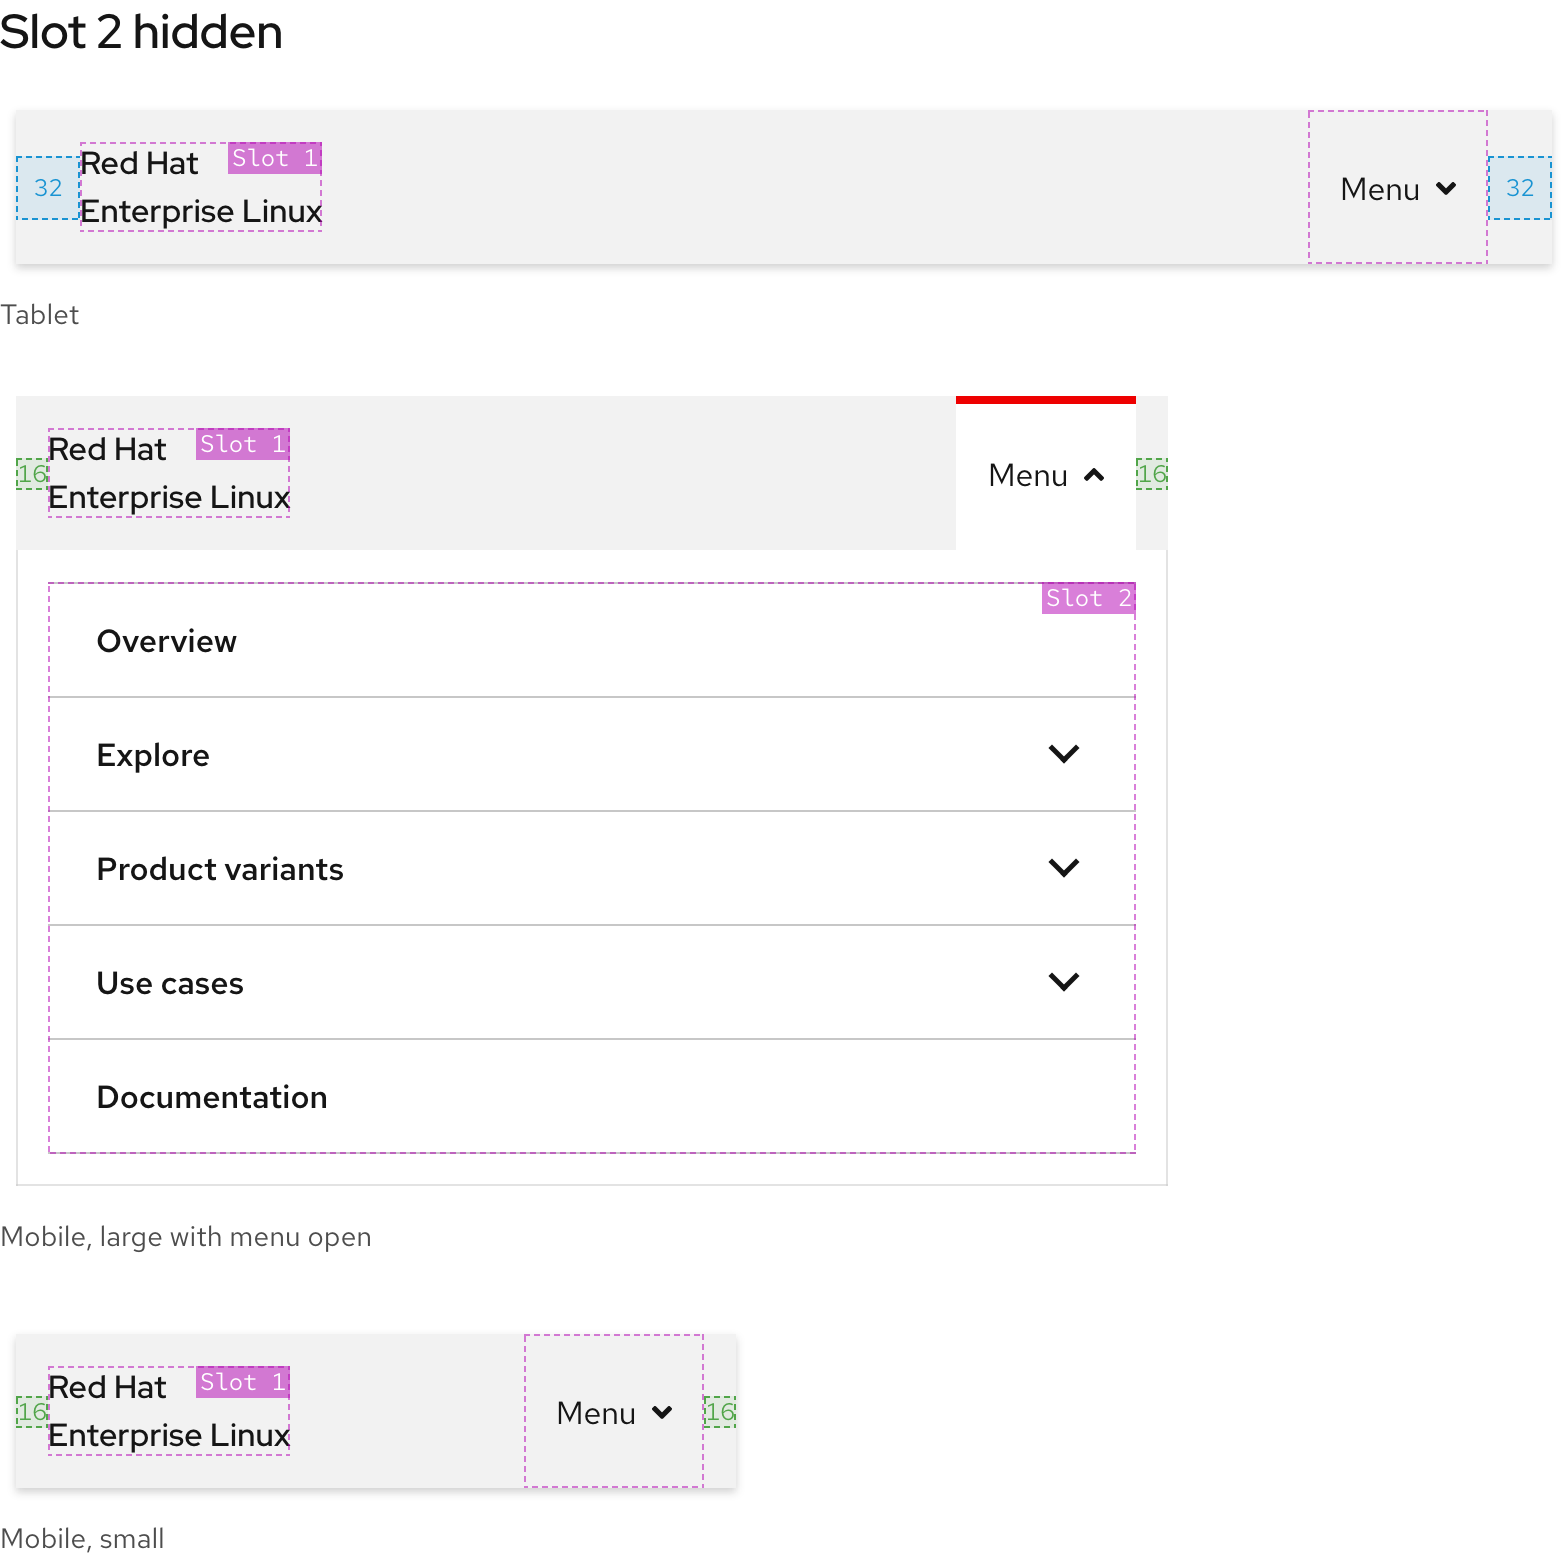
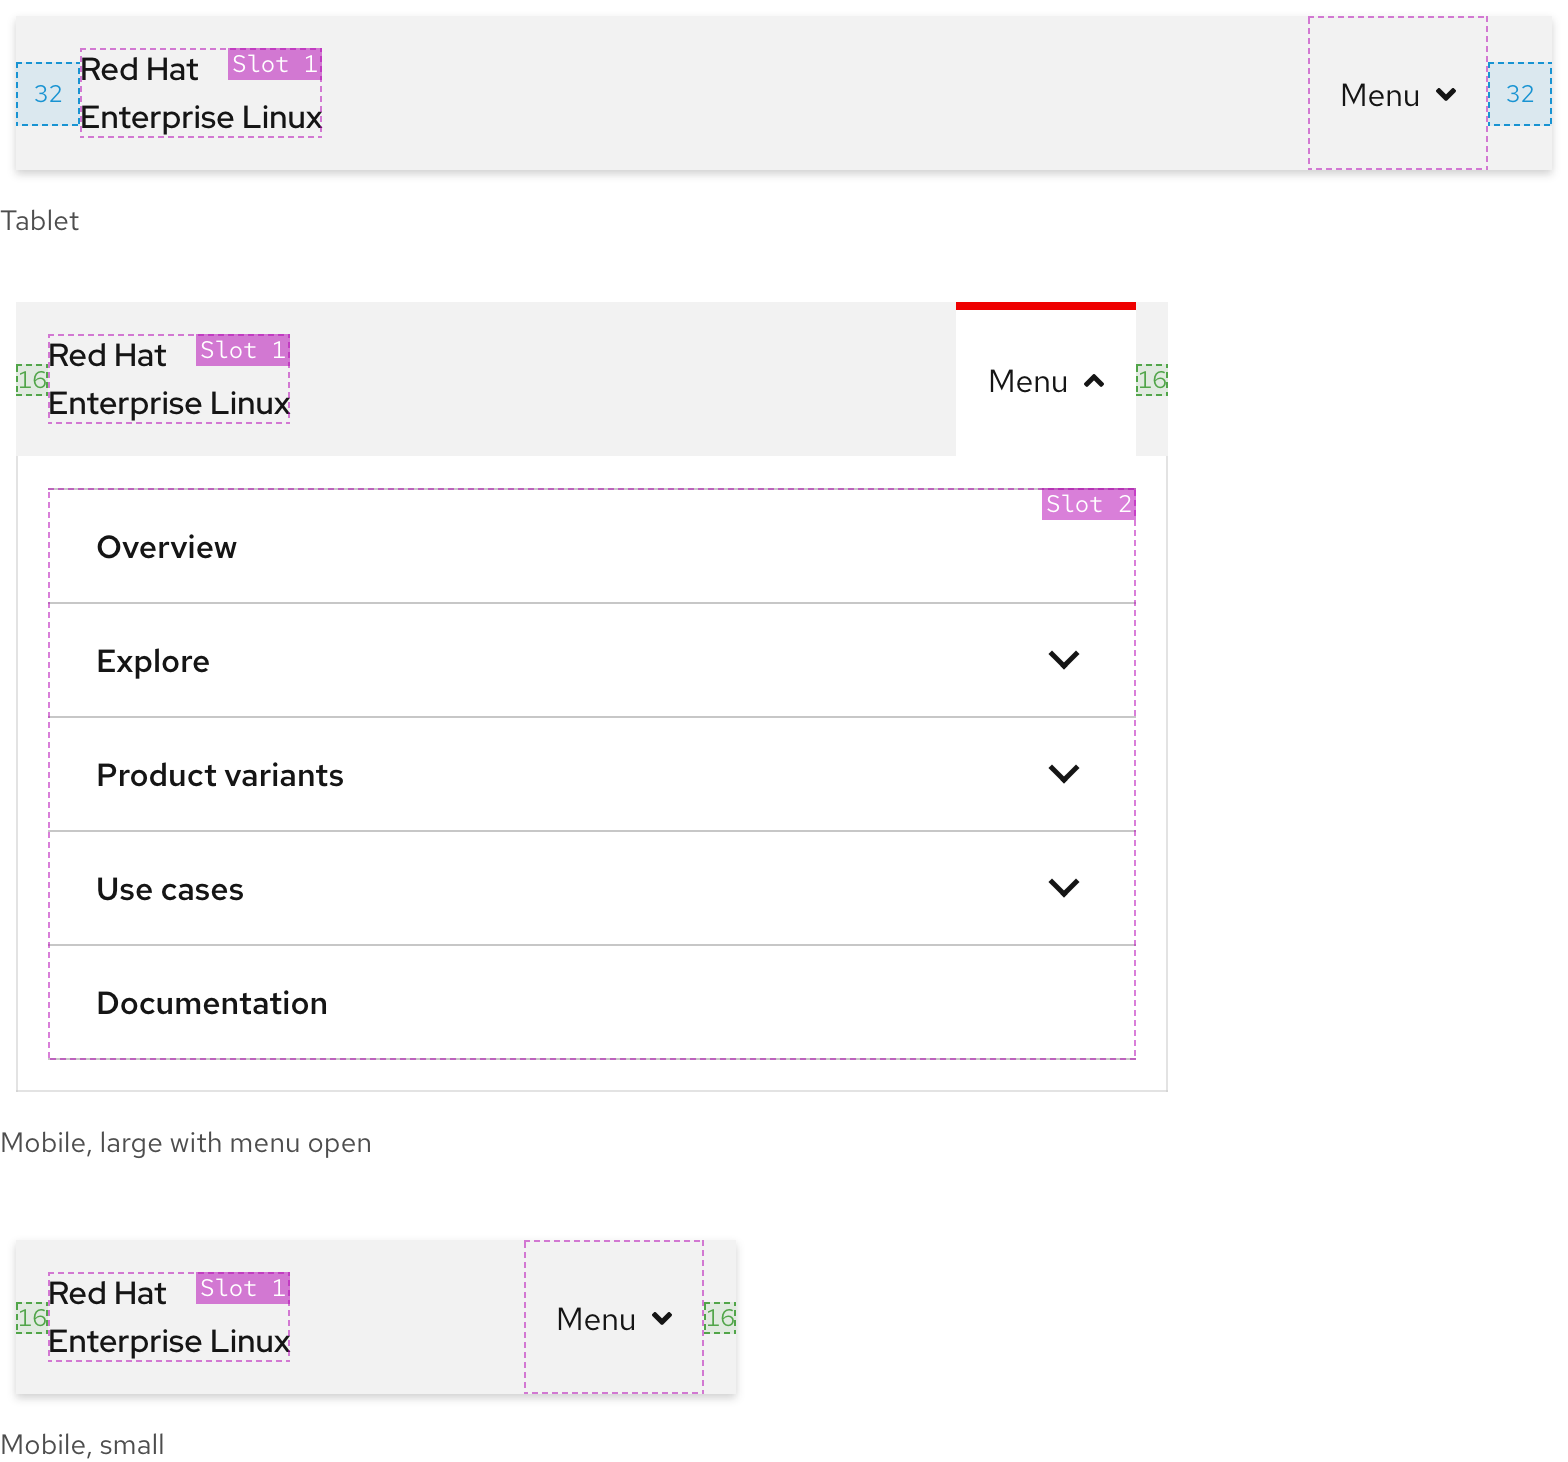
docs(navigation-secondary): correcting issues (#1011)
* docs(navigation-secondary): sample componet should be in a example container

* docs(navigation-secondary): fix expandable menu table

* docs(navigation-secondary): correct spacer image sizes

* docs(navigagtion-secondary): update responsive slot 2 images

* docs(navigation-secondary): add component status table

* docs: update repoStatus csv

* docs(navigation-secondary): update images

* docs(navigation-secondary): remove unneeded spacer images

* docs(navigation-secondary): remove conflict

* docs(navigation-secondary): set inline-img-max-width to ensure no bluriness

* docs(navigation-secondary): image regression

diff --git a/elements/rh-navigation-secondary/rh-navigation-secondary.ts b/elements/rh-navigation-secondary/rh-navigation-secondary.ts
@@ -35,7 +35,7 @@ import styles from './rh-navigation-secondary.css';
 import { state } from 'lit/decorators/state.js';
 
 /**
- * The Secondary navigation is used to connect a series of pages together. It displays wayfinding content and links relevant to the page it is placed on. It should be used in conjunction with the [Primary navigation](../navigation-primary).
+ * The Secondary navigation is used to connect a series of pages together. It displays wayfinding content and links relevant to the page it is placed on. It should be used in conjunction with the [primary navigation](../navigation-primary).
  *
  * @summary  Connects a series of pages across web properties
  *

diff --git a/elements/rh-navigation-secondary/docs/20-guidelines.md b/elements/rh-navigation-secondary/docs/20-guidelines.md
@@ -19,7 +19,9 @@
    - If product name text is long, it needs to break to two lines
    - If product name text is short and there are fewer links and menus, it can remain on one line
 
-  ![Image of four secondary navigations showing how stacked product name text offers more space][nav-secondary-guidelines-slot-1-text] {style="margin-block: var(--rh-space-2xl, 32px);"}
+  {% example palette="none",
+    alt="Image of four secondary navigations showing how stacked product name text offers more space",
+    src="../nav-secondary-guidelines-slot-1-text.png" %}
 
   ### Slot 2 text
   Slot 2 includes inline links, menus, and sometimes external links. The order of elements is decided by content strategists. When writing content for Slot 2, consider the following:
@@ -29,7 +31,9 @@
    - At least one menu or link should be included, but no more than five total
    - Text will expand when translated to some languages
 
-  ![Image of two secondary navigations comparing an acceptable amount of links and menus][nav-secondary-guidelines-slot-2-text] {style="margin-block: var(--rh-space-2xl, 32px);"}
+  {% example palette="none",
+    alt="Image of two secondary navigations comparing an acceptable amount of links and menus",
+    src="../nav-secondary-guidelines-slot-2-text.png" %}
 
   ### Slot 3 text
   Slot 3 is optional, but it can include interactive elements like a call to action. When writing content for Slot 3, consider the following:
@@ -39,7 +43,9 @@
    - A call to action <strong>does not</strong> stack to increase the amount of space
    - Text will expand when translated to some languages
 
-  ![Image of two secondary navigations comparing the character counts of a call to action][nav-secondary-guidelines-slot-3-text] {style="margin-block: var(--rh-space-2xl, 32px);"}
+  {% example palette="none",
+    alt="Image of two secondary navigations comparing the character counts of a call to action",
+    src="../nav-secondary-guidelines-slot-3-text.png" %}
 
   ### Maximum uses and character count
   If there are fewer links and menus in Slot 2, text labels can be longer. If there are more links and menus, text labels need to be shorter to avoid cluttering.
@@ -61,11 +67,15 @@
     Do not use more than four columns, stack groups below other groups instead like in the examples below.
   {% endalert %}
 
-  ![Image of a secondary navigation with four columns of links][nav-secondary-usage-expandable-menu-columns-4] {style="margin-block: var(--rh-space-2xl, 32px);"}
+  {% example palette="none",
+    alt="Image of a secondary navigation with four columns of links",
+    src="../nav-secondary-usage-expandable-menu-columns-4.png" %}
 
   If content is organized in two columns, they will stretch to fill the empty space.
 
-  ![Image of a secondary navigation with two columns of links][nav-secondary-usage-expandable-menu-columns-2] {style="margin-block: var(--rh-space-2xl, 32px);"}
+  {% example palette="none",
+    alt="Image of a secondary navigation with two columns of links",
+    src="../nav-secondary-usage-expandable-menu-columns-2.png" %}
 
   ### Expandable menu content 
   The expandable menu includes content like text, links, calls to action, and more. When adding content to an expandable menu, follow these guidelines:
@@ -83,14 +93,18 @@
   ## Behavior
 
   ### Current page indicator 
-  When a user is viewing a page that is part of the secondary navigation **information architecture**, a red top border is visible. In the example below, a user is viewing both the *Overview* page and a page within the *Product variants* menu. External links do not display the red top border (except on hover) because they open links in a new tab or window instead.
+  When a user is viewing a page that is part of the secondary navigation information architecture, a red top border is visible. In the example below, a user is viewing both the *Overview* page and a page within the *Product variants* menu. External links do not display the red top border (except on hover) because they open links in a new tab or window instead.
 
-  ![Image of two secondary navigations with red bars on top of different menus][nav-secondary-guidelines-current-page-indicator] {style="margin-block: var(--rh-space-2xl, 32px);"}
+  {% example palette="none",
+    alt="Image of two secondary navigations with red bars on top of different menus",
+    src="../nav-secondary-guidelines-current-page-indicator.png" %}
 
   ### Scrolling with primary navigation
   A secondary navigation is positioned below the primary navigation when the page loads. When a user scrolls down, the primary navigation disappears and the secondary navigation becomes fixed to the top of the browser window. When a user scrolls back up to the top, the secondary navigation is positioned under the primary navigation again.
 
-  ![Image of primary and secondary navigations and their behaviors when scrolling][nav-secondary-guidelines-scrolling-primary-nav] {style="margin-block: var(--rh-space-2xl, 32px);"}
+  {% example palette="none",
+    alt="Image of primary and secondary navigations and their behaviors when scrolling",
+    src="../nav-secondary-guidelines-scrolling-primary-nav.png" %}
 
   ### Navigating between menus
   Only one menu can be expanded at a time and there is no animation when navigating from one menu to the next.
@@ -106,11 +120,15 @@
   ### Scrolling with menu expanded 
   If the height of the menu is **shorter** than the viewport height, content should scroll underneath the backdrop.
 
-  ![Image of secondary navigation showing the scrolling behavior when the menu panel is shorter than the viewport height][nav-secondary-guidelines-scrolling-menu-expanded-a] {style="margin-block: var(--rh-space-2xl, 32px);"}
+  {% example palette="none",
+    alt="Image of secondary navigation showing the scrolling behavior when the menu panel is shorter than the viewport height",
+    src="../nav-secondary-guidelines-scrolling-menu-expanded-a.png" %}
 
   If the height of the menu is **taller** than the viewport height, scroll is trapped within the panel until the menu is collapsed.
 
-  ![Image of secondary navigation showing the scrolling behavior when the menu panel is taller than the viewport height][nav-secondary-guidelines-scrolling-menu-expanded-b] {style="margin-block: var(--rh-space-2xl, 32px);"}
+  {% example palette="none",
+    alt="Image of secondary navigation showing the scrolling behavior when the menu panel is taller than the viewport height",
+    src="../nav-secondary-guidelines-scrolling-menu-expanded-ba.png" %}
 
 {% endsection %}
 
@@ -121,11 +139,15 @@
   
   ### Slot 2 visible
 
-  ![Image of secondary navigations; one has a menu collapsed and the other has a menu expanded, but both have slot 2 visible on large breakpoints][nav-secondary-guidelines-responsive-slot-2-visible] {style="margin-block: var(--rh-space-2xl, 32px);"}
+  {% example palette="none",
+    alt="Image of secondary navigations; one has a menu collapsed and the other has a menu expanded, but both have slot 2 visible on large breakpoints",
+    src="../nav-secondary-guidelines-responsive-slot-2-visible.png" %}
 
   ### Slot 2 hidden 
 
-  ![Image of secondary navigations; slot 2 on small breakpoints is not visible unless the menu is expanded][nav-secondary-guidelines-responsive-slot-2-hidden] {style="margin-block: var(--rh-space-2xl, 32px);"}
+  {% example palette="none",
+    alt="Image of secondary navigations; slot 2 on small breakpoints is not visible unless the menu is expanded",
+    src="../nav-secondary-guidelines-responsive-slot-2-hidden.png" %}
 
   ### Breakpoints
 
@@ -150,49 +172,43 @@
   ### Incorrect ordering
   Do not position the secondary navigation above the primary navigation.
 
-  ![Image of a secondary navigation on top of a primary navigation which is incorrect usage][nav-secondary-best-practice-1] {style="margin-block: var(--rh-space-2xl, 32px);"}
+  {% example palette="none",
+    alt="Image of a secondary navigation on top of a primary navigation which is incorrect usage",
+    src="../nav-secondary-best-practice-1.png" %}
 
   ### Theme mismatch
   Do not use a dark theme secondary navigation in light environments and vice versa.
 
-  ![Image of a dark theme secondary navigation in a light theme environment which is incorrect usage][nav-secondary-best-practice-2] {style="margin-block: var(--rh-space-2xl, 32px);"}
+  {% example palette="none",
+    alt="Image of a dark theme secondary navigation in a light theme environment which is incorrect usage",
+    src="../nav-secondary-best-practice-2.png" %}
 
   ### Content overload
   Do not use too many links or menus in Slot 2.
 
-  ![Image of a secondary navigation with way more than five links and menus which is incorrect usage][nav-secondary-best-practice-3] {style="margin-block: var(--rh-space-2xl, 32px);"}
+  {% example palette="none",
+    alt="Image of a secondary navigation with way more than five links and menus which is incorrect usage",
+    src="../nav-secondary-best-practice-3.png" %}
 
   ### Adding slots
   Do not add more slots than provided, three is the maximum.
 
-  ![Image of a secondary navigation with four dotted line boxes for slots which is incorrect usage][nav-secondary-best-practice-4] {style="margin-block: var(--rh-space-2xl, 32px);"}
+  {% example palette="none",
+    alt="Image of a secondary navigation with four dotted line boxes for slots which is incorrect usage",
+    src="../nav-secondary-best-practice-4.png" %}
   
   ### Slot 1 text
   Slot 1 text should never break to three lines.
 
-  ![Image of a secondary navigation, but the product name logo in slot 1 is three lines which is incorrect usage][nav-secondary-best-practice-5] {style="margin-block: var(--rh-space-2xl, 32px);"}
+  {% example palette="none",
+    alt="Image of a secondary navigation, but the product name logo in slot 1 is three lines which is incorrect usage",
+    src="../nav-secondary-best-practice-5.png" %}
   
   ### Missing navigation
   At least one link or menu in Slot 2 must be visible.
 
-  ![Image of a secondary navigation with no links or menus in slot 2 which is incorrect usage][nav-secondary-best-practice-6] {style="margin-block: var(--rh-space-2xl, 32px);"}
+  {% example palette="none",
+    alt="Image of a secondary navigation with no links or menus in slot 2 which is incorrect usage",
+    src="../nav-secondary-best-practice-6.png" %}
 
 {% endsection %}
-
-[nav-secondary-guidelines-slot-1-text]: {{ '../nav-secondary-guidelines-slot-1-text.png' | url }}
-[nav-secondary-guidelines-slot-2-text]: {{ '../nav-secondary-guidelines-slot-2-text.png' | url }}
-[nav-secondary-guidelines-slot-3-text]: {{ '../nav-secondary-guidelines-slot-3-text.png' | url }}
-[nav-secondary-usage-expandable-menu-columns-4]: {{ '../nav-secondary-usage-expandable-menu-columns-4.png' | url }}
-[nav-secondary-usage-expandable-menu-columns-2]: {{ '../nav-secondary-usage-expandable-menu-columns-2.png' | url }}
-[nav-secondary-guidelines-current-page-indicator]: {{ '../nav-secondary-guidelines-current-page-indicator.png' | url }}
-[nav-secondary-guidelines-scrolling-primary-nav]: {{ '../nav-secondary-guidelines-scrolling-primary-nav.png' | url }}
-[nav-secondary-guidelines-scrolling-menu-expanded-a]: {{ '../nav-secondary-guidelines-scrolling-menu-expanded-a.png' | url }}
-[nav-secondary-guidelines-scrolling-menu-expanded-b]: {{ '../nav-secondary-guidelines-scrolling-menu-expanded-b.png' | url }}
-[nav-secondary-guidelines-responsive-slot-2-visible]: {{ '../nav-secondary-guidelines-responsive-slot-2-visible.png' | url }}
-[nav-secondary-guidelines-responsive-slot-2-hidden]: {{ '../nav-secondary-guidelines-responsive-slot-2-hidden.png' | url }}
-[nav-secondary-best-practice-1]: {{ '../nav-secondary-best-practice-1.png' | url }}
-[nav-secondary-best-practice-2]: {{ '../nav-secondary-best-practice-2.png' | url }}
-[nav-secondary-best-practice-3]: {{ '../nav-secondary-best-practice-3.png' | url }}
-[nav-secondary-best-practice-4]: {{ '../nav-secondary-best-practice-4.png' | url }}
-[nav-secondary-best-practice-5]: {{ '../nav-secondary-best-practice-5.png' | url }}
-[nav-secondary-best-practice-6]: {{ '../nav-secondary-best-practice-6.png' | url }}

diff --git a/elements/rh-navigation-secondary/docs/10-style.md b/elements/rh-navigation-secondary/docs/10-style.md
@@ -34,7 +34,7 @@
   ### Using the expandable menu
   The expandable menu is an area where content can be placed like text, links, calls to action, and more. The menu requires a backdrop so it can separate itself from the page underneath, this helps users focus on the menu content.
 
-  | Property {style="width: 50%" } | Current value | {style="width: 100%"}
+  | Property {style="width: 50%" } | Current value | 
   |-----------------------|---------------|
   | Color - backdrop      | #151515       |
   | Opacity - background  | 50%           |
@@ -100,7 +100,7 @@
 
 
   {% alert state="info", title="Helpful Tip" %}
-    Slot 3 usually includes a call to action. To see call to action styles, visit the <a href="../call-to-action">Call to Action</a> documentation.
+    Slot 3 usually includes a Call to action. To see Call to action styles, visit the <a href="/elements/call-to-action">Call to action</a> page.
   {% endalert %}
 
   {% example palette="light",
@@ -130,14 +130,19 @@
 
   ### Large breakpoints
 
-  ![Image of secondary navigation spacing values on large breakpoints][nav-secondary-space-breakpoints-large] {style="margin-block: var(--rh-spacer-2xl, 32px);"}
+  {% example palette="none",
+    alt="Image of secondary navigation spacing values on large breakpoints",
+    src="../nav-secondary-space-breakpoints-large.png" %}
 
   ### Small breakpoints  
 
-  ![Image of secondary navigation spacing values on small breakpoints][nav-secondary-space-breakpoints-small] {style="margin-block: var(--rh-spacer-2xl, 32px);"}
+  {% example palette="none",
+    alt="Image of secondary navigation spacing values on small breakpoints",
+    src="../nav-secondary-space-breakpoints-small.png" %}
+
 
   {% spacerTokensTable 
-    headline="Breakpoint Spacing tokens",
+    headline="",
     caption='',
     headingLevel="4",
     tokens="--rh-space-md, --rh-space-lg,  --rh-space-2xl" %}
@@ -173,7 +178,7 @@
   ### Focus
 
   {% alert state="info", title="Helpful Tip" %}
-    The Focus state has the same styles as the Hover state..
+    The Focus state has the same styles as the Hover state.
   {% endalert %}
 
   {% example palette="light",
@@ -212,9 +217,4 @@
 
 {% endsection %}
 
-[nav-secondary-space-breakpoints-large]: {{ '../nav-secondary-space-breakpoints-large.png' | url}}
-[nav-secondary-space-breakpoints-small]: {{ '../nav-secondary-space-breakpoints-small.png' | url}}
-[nav-secondary-8px-spacer]: {{ '../nav-secondary-8px-spacer.png' | url}}
-[nav-secondary-16px-spacer]: {{ '../nav-secondary-16px-spacer.png' | url}}
-[nav-secondary-32px-spacer]: {{ '../nav-secondary-32px-spacer.png' | url}}
 

diff --git a/elements/rh-navigation-secondary/docs/00-overview.md b/elements/rh-navigation-secondary/docs/00-overview.md
@@ -4,7 +4,9 @@
 
   ## Sample component
 
-  ![Image of two stacked secondary navigations; one for large breakpoints and the other for small breakpoints][nav-secondary-sample] {style="margin-block:var(--rh-space-2xl, 32px);"}
+  {% example palette="none",
+      alt="Image of two stacked secondary navigations; one for large breakpoints and the other for small breakpoints",
+      src="./nav-secondary-sample.png" %}
 
   ## Demo
 
@@ -17,9 +19,6 @@
   - When you need to provide a more granular navigation that is specific to a topic
   - When you need to prevent other navigations from getting overloaded
 
-  ## Repo status 
-  {# Uncomment repoStatus shortcode PR merges {% repoStatus type="Element" %} #}
+  {% repoStatus type="Element" %}
 
 {% endsection %}
-
-[nav-secondary-sample]: {{ './nav-secondary-sample.png' | url }}
